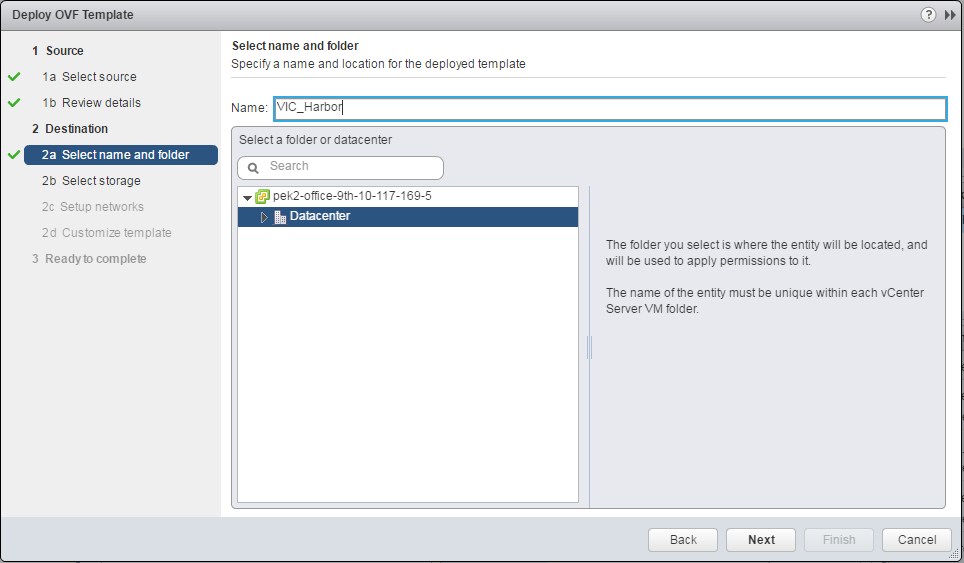
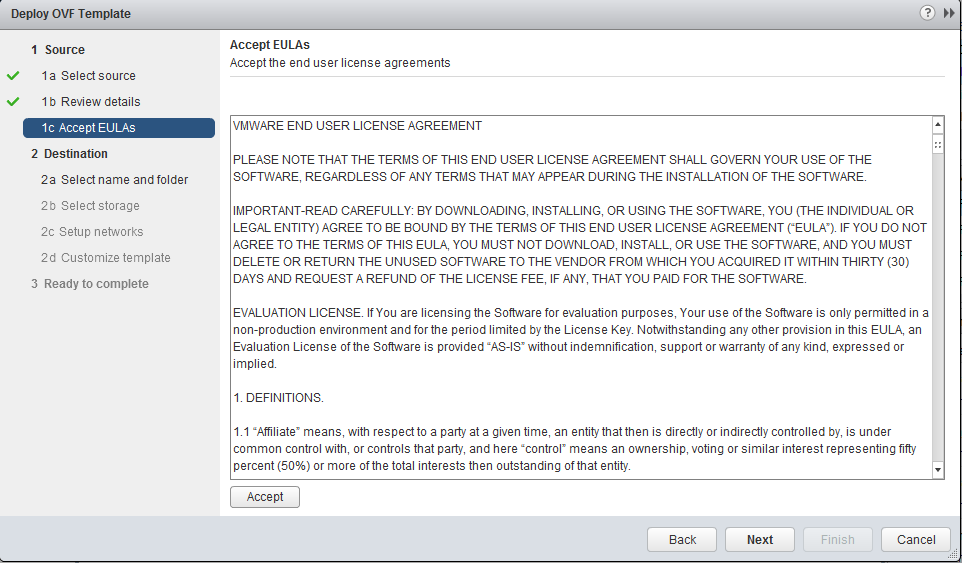
update ova guide

diff --git a/docs/installation_guide_ova.md b/docs/installation_guide_ova.md
@@ -22,43 +22,55 @@ This guide walks you through the steps about installing and configuring Harbor o
 
  ![ova](img/ova/ova03.png)
 
-5. Specify a name and a location for the virtual appliance.  
+5. Accept the end user license agreements and click "Next".  
 
  ![ova](img/ova/ova04.png)
 
-6. Select the datastore and virtual disk format, click "Next".  
+6. Specify a name and a location for the virtual appliance.  
 
  ![ova](img/ova/ova05.png)
 
-7. Configure the network(s) the virtual appliance should be connected to.  
+7. Select the datastore and virtual disk format, click "Next".  
 
  ![ova](img/ova/ova06.png)
 
-8. Customize the properties of Harbor. The properties are described below. Note that at the very least, you just need to set the **Root Password**, **Harbor Admin Password** and **Database Password** properties.  
+8. Configure the network(s) the virtual appliance should be connected to.  
 
  ![ova](img/ova/ova07.png)
 
- * Harbor
-	* **Root Password**: The password of the root user. 
+9. Customize the properties of Harbor. The properties are described below. Note that at the very least, you just need to set the **Root Password**, **Harbor Admin Password** and **Database Password** properties.  
+
+ ![ova](img/ova/ova08.png)
+
+ * System
+	* **Root Password**: The initial password of the root user. Subsequent changes of password should be performed in operating system. (8-128 characters)
 	* **Harbor Admin Password**: The initial password of Harbor admin. It only works for the first time when Harbor starts. It has no effect after the first launch of Harbor. Change the admin password from UI after launching Harbor. 
-	* **Database Password**: The password of the root user of MySQL database. 
-	* **Authentication Mode**: The default authentication mode is db_auth, i.e. the credentials are stored in a local database. Set it to ldap_auth if you want to verify the user's credential against an LDAP/AD server.
+	* **Database Password**: The initial password of the root user of MySQL database. Subsequent changes of password should be performed in operating system. (8-128 characters)
+	* **Permit Root Login**: Specifies whether root use can log in using SSH.
+	* **Self Registration**: Determine whether the self-registration is allowed or not. Set this to off to disable a user's self-registration in Harbor. This flag has no effect when users are stored in LDAP or AD.
+	* **Garbage Collection**: When setting this to true, Harbor performs garbage collection everytime it boots up. The first time setting this flag to true needs to power off the VM and power it on again.
+
+ * Authentication
+	* **Authentication Mode**: The default authentication mode is db_auth. Set it to ldap_auth when users' credentials are stored in an LDAP or AD server. Note: this option can only be set once.
 	* **LDAP URL**: The URL of an LDAP/AD server.
 	* **LDAP Search DN**: A user's DN who has the permission to search the LDAP/AD server. If your LDAP/AD server does not support anonymous search, you should configure this DN and LDAP Seach Password.
 	* **LDAP Search Password**: The password of the user for LDAP search.
 	* **LDAP Base DN**: The base DN from which to look up a user in LDAP/AD.
 	* **LDAP UID**: The attribute used in a search to match a user, it could be uid, cn, email, sAMAccountName or other attributes depending on your LDAP/AD server.
+
+ * Security
+	* **Protocol**: The protocol for accessing Harbor. Warning: setting it to http makes the communication insecure.
+	* **SSL Cert**: Paste in the content of a certificate file. Leave blank for a generated self-signed certificate.
+	* **SSL Cert Key**: Paste in the content of certificate key file. Leave blank for a generated key.
+	* **Verify Remote Cert**: Determine whether the image replication should verify the certificate when it connects to a remote registry via TLS. Set this flag to off when the remote registry uses a self-signed or untrusted certificate.
+
+ * Email Settings
 	* **Email Server**: The mail server to send out emails to reset password. 
 	* **Email Server Port**: The port of mail server.
 	* **Email Username**: The user from whom the password reset email is sent.
 	* **Email Password**: The password of the user from whom the password reset email is sent.
 	* **Email From**: The name of the email sender.
 	* **Email SSL**: Whether to enabled secure mail transmission.
-	* **SSL Cert**: Paste in the content of a certificate file. If SSL Cert and SSL Cert Key are both set, HTTPS will be used.
-	* **SSL Cert Key**: Paste in the content of certificate key file. If SSL Cert and SSL Cert Key are both set, HTTPS will be used.
-	* **Self Registration**: Determine whether the self-registration is allowed or not. Set this to off to disable a user's self-registration in Harbor. This flag has no effect when users are stored in LDAP or AD. 
-	* **Verify Remote Cert**: Determine whether the image replication should verify the certificate when it connects to a remote registry via TLS. Set this flag to off when the remote registry uses a self-signed or untrusted certificate.
-	* **Garbage Collection**: When setting this to true, Harbor performs garbage collection everytime it boots up. The first time setting this flag to true needs to power off the VM and power it on again.
 
  * Networking properties
 	* **Default Gateway**: The default gateway address for this VM. Leave blank if DHCP is desired.
@@ -68,19 +80,19 @@ This guide walks you through the steps about installing and configuring Harbor o
 	* **Network 1 IP Adress**: The IP address of this interface. Leave blank if DHCP is desired.
 	* **Network 1 Netmask**: The netmask or prefix for this interface. Leave blank if DHCP is desired.
 
- **Notes:** If you want to enable HTTPS with a self-signed certificate, refer to the "Getting a certificate" part of this [guide](https://github.com/vmware/harbor/blob/master/docs/configure_https.md#getting-a-certificate) for generating a certificate.  
+ **Notes:** If you want to enable HTTPS with a self-signed certificate created manually, refer to the "Getting a certificate" part of this [guide](https://github.com/vmware/harbor/blob/master/docs/configure_https.md#getting-a-certificate) for generating a certificate.  
 
  After you complete the properties, click "Next".  
 
-9. Review your settings and click "Finish" to complete the deployment.  
+10. Review your settings and click "Finish" to complete the deployment.  
 
- ![ova](img/ova/ova08.png)
+ ![ova](img/ova/ova09.png)
 
-10. Power on the virtual appliance. It may take a few minutes for the first bootup. The virtual appliance needs to initialize itself for configuration like netowrk address and password. 
+11. Power on the virtual appliance. It may take a few minutes for the first bootup. The virtual appliance needs to initialize itself for configuration like netowrk address and password. 
 
-11. When the appliance is ready, check from vSphere Web Client for its IP address. Open a browser and type in the URL `http(s)://harbor_ip_address` or `http(s)://harbor_host_name`. Log in as the admin user and verify Harbor has been successfully installed. 
+12. When the appliance is ready, check from vSphere Web Client for its IP address. Open a browser and type in the URL `http(s)://harbor_ip_address` or `http(s)://harbor_host_name`. Log in as the admin user and verify Harbor has been successfully installed. 
 
-12. For information on how to use Harbor, please refer to [User Guide of Harbor](user_guide.md).
+13. For information on how to use Harbor, please refer to [User Guide of Harbor](user_guide.md).
 
 ## Reconfiguration
 If you want to change the properties of Harbor, follow the below steps:  
@@ -96,4 +108,10 @@ If you want to change the properties of Harbor, follow the below steps:
 
 4. **Power on** the VM.  
 
-**Note:** The initial admin password, root password of the virtual appliance, MySql root password, and all networking properties can not be modified using this method after Harbor's first launch. The password of the admin user should be changed in the admin portal. The root password of virtual appliance, as well as the networking settings, can be changed by logging in the virtural appliance and doing it in the Linux operating system.
+**Notes:**  
+1. The authentication mode can only be set once on firtst boot. So subsequent modification of this option will have no effect.  
+2. The initial admin password, root password of the virtual appliance, MySQL root password, and all networking properties can not be modified using this method after Harbor's first launch. Modify them by the following steps:
+ * Harbor Admin Password: Change it in Harbor admin portal.  
+ * Root Password of Virtual Appliance: Change it by logging in the virtual appliance and doing it in the Linux operating system.  
+ * MySQL Root Password: Change it by logging in the virtual appliance and doing it in the Linux operating system.  
+ * Networking Properties: Visit `https://harbor_ip_address:5480`, login with root/password of your virtual appliance and modify networking properties. Reboot the system after you changing them.  
